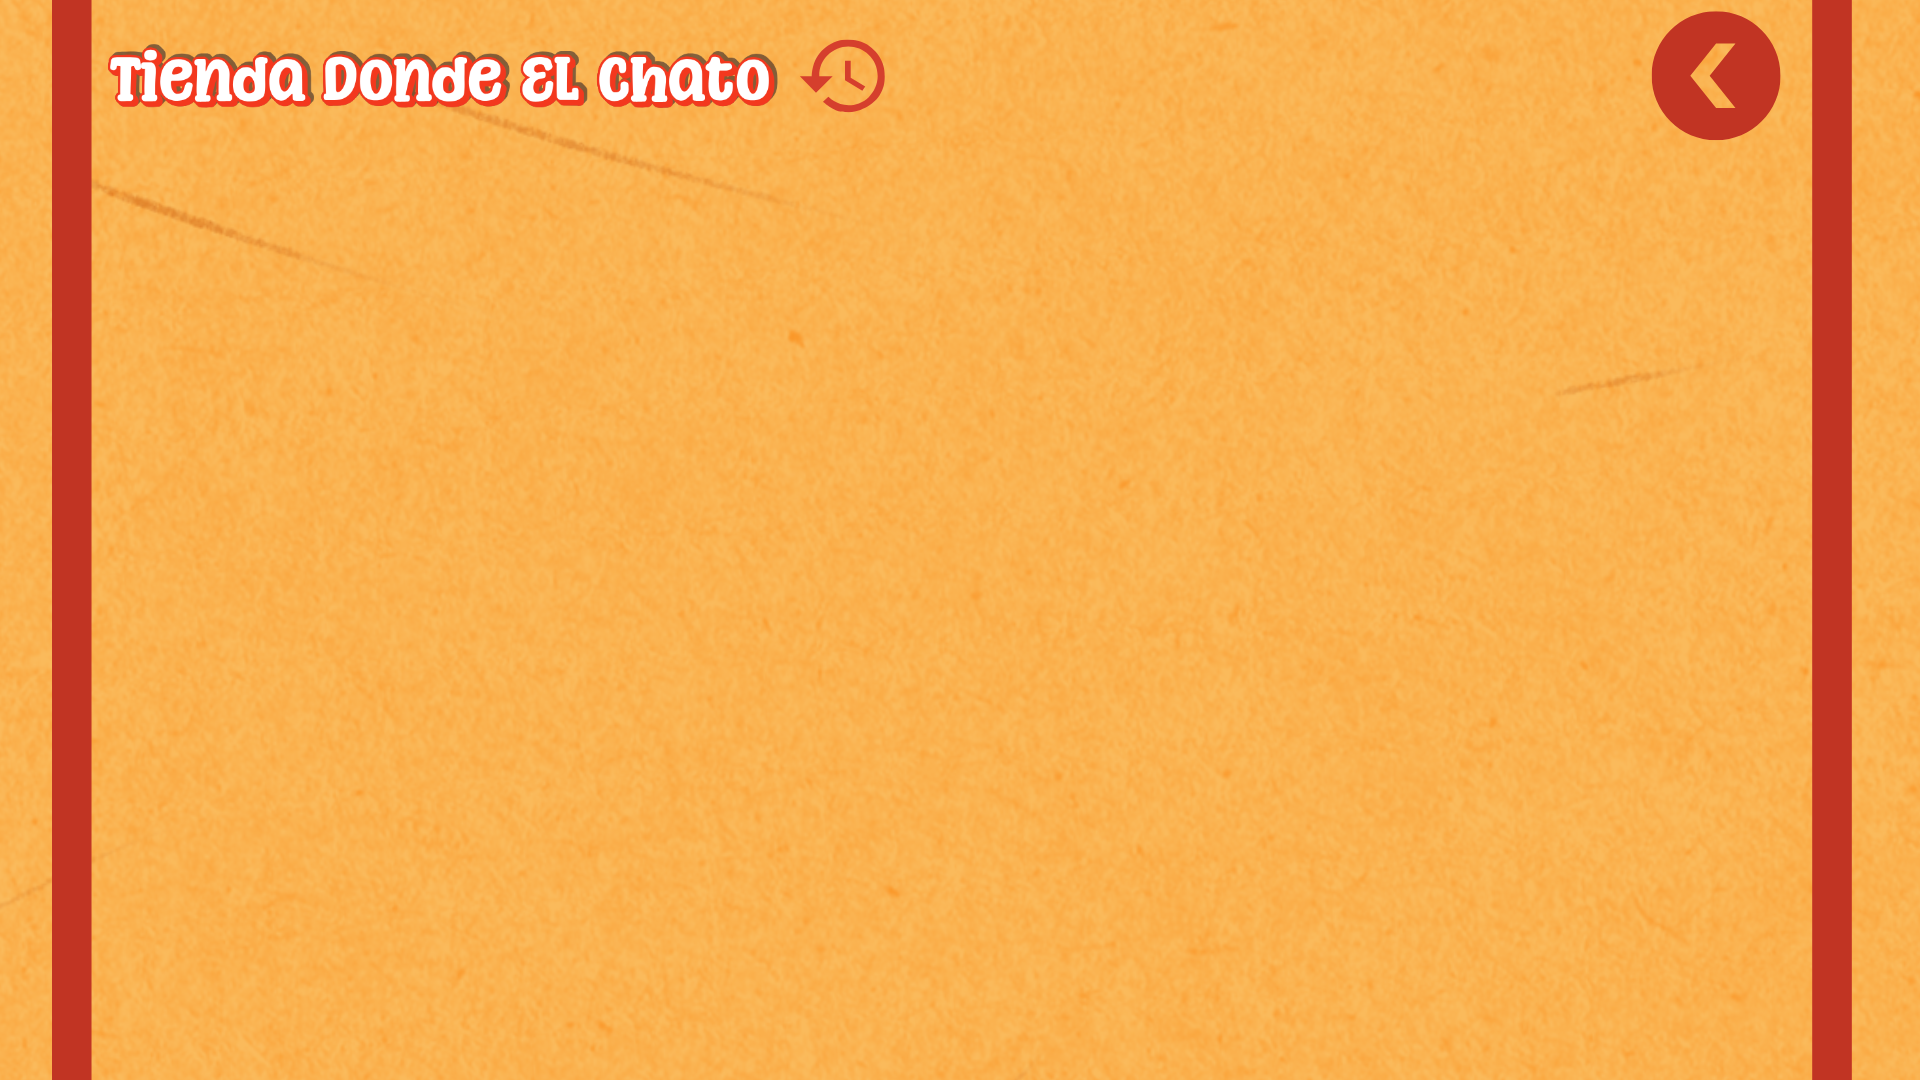
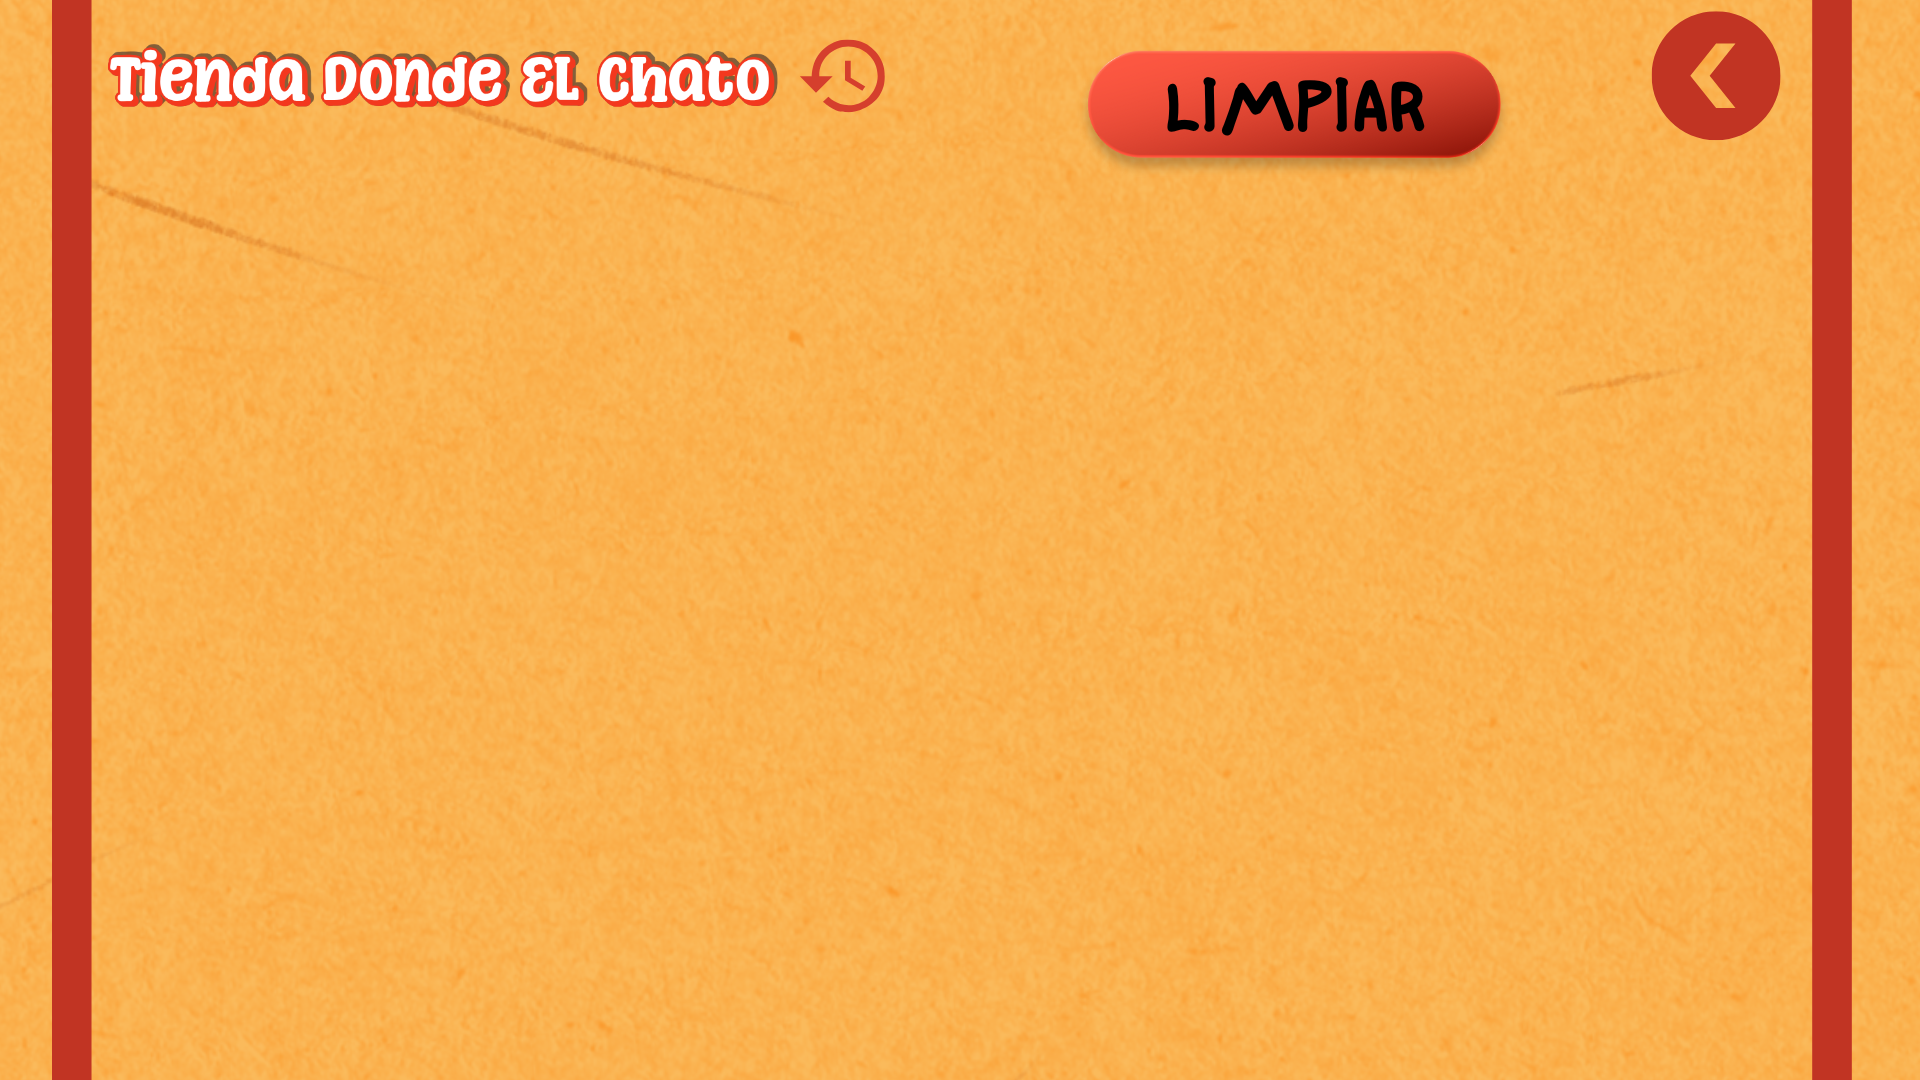
ya hpta

Changed region(s): [[0.5625, 0.0306, 0.7812, 0.1528]]

diff --git a/TiendaBarrio/src/co/edu/unbosque/view/PanelHistorial.java b/TiendaBarrio/src/co/edu/unbosque/view/PanelHistorial.java
@@ -22,153 +22,156 @@ import co.edu.unbosque.util.structure.LinkedList;
 import co.edu.unbosque.util.structure.Node;
 
 public class PanelHistorial extends JPanel {
-    private JLabel fondo;
-    private JButton btnVolver;
-    private JButton btnLimpiar;
-    private JScrollPane scrollPane;
-    private JPanel panelContenido;
-    private LinkedList<Carrito> historialCompras;
+	private JLabel fondo;
+	private JButton btnVolver;
+	private JButton btnLimpiar;
+	private JScrollPane scrollPane;
+	private JPanel panelContenido;
+	private LinkedList<Carrito> historialCompras;
 
-    public PanelHistorial() throws IOException {
-        setBounds(0, 0, 1290, 750);
-        setLayout(new BorderLayout());
-        this.historialCompras = new LinkedList<>();
+	public PanelHistorial() throws IOException {
+		setBounds(0, 0, 1290, 750);
+		setLayout(new BorderLayout());
+		this.historialCompras = new LinkedList<>();
 
-        panelContenido = new JPanel();
-        panelContenido.setLayout(new GridLayout(0, 1, 10, 10));
+		panelContenido = new JPanel();
+		panelContenido.setLayout(new GridLayout(0, 1, 10, 10));
 
-        fondo = new JLabel();
-        BufferedImage fd = ImageIO.read(new File("src/co/edu/unbosque/view/historial.png"));
-        ImageIcon imagenFondo = new ImageIcon(fd.getScaledInstance(1290, 750, Image.SCALE_SMOOTH));
-        fondo.setIcon(imagenFondo);
-        fondo.setBounds(0, 0, 1290, 750);
+		fondo = new JLabel();
+		BufferedImage fd = ImageIO.read(new File("src/co/edu/unbosque/view/historial.png"));
+		ImageIcon imagenFondo = new ImageIcon(fd.getScaledInstance(1290, 750, Image.SCALE_SMOOTH));
+		fondo.setIcon(imagenFondo);
+		fondo.setBounds(0, 0, 1290, 750);
 
-        btnLimpiar = new JButton("Limpiar Historial");
-        btnLimpiar.setBounds(1050, 600, 200, 100);
-        btnLimpiar.setFocusable(false);
-        btnLimpiar.setBackground(new Color(235, 219, 79));
-        btnLimpiar.setFont(new Font("Baloo", Font.BOLD, 15));
+		btnLimpiar = new JButton();
+		btnLimpiar.setBounds(735, 33, 280, 80);
+		btnLimpiar.setFocusable(false);
+		btnLimpiar.setBackground(new Color(0, 0, 0));
+		btnLimpiar.setContentAreaFilled(false);
+		btnLimpiar.setOpaque(false);
+		btnLimpiar.setBorderPainted(false);
+		btnLimpiar.setVisible(true);
 
-        btnVolver = new JButton();
-        btnVolver.setBounds(1120, 70, 120, 70);
-        btnVolver.setFocusable(false);
-        btnVolver.setBackground(new Color(0, 0, 0));
-        btnVolver.setBorderPainted(false);
-        btnVolver.setContentAreaFilled(false);
-        btnVolver.setOpaque(false);
+		btnVolver = new JButton();
+		btnVolver.setBounds(1110, 5, 100, 90);
+		btnVolver.setFocusable(false);
+		btnVolver.setBackground(new Color(0, 0, 0));
+		btnVolver.setBorderPainted(false);
+		btnVolver.setContentAreaFilled(false);
+		btnVolver.setOpaque(false);
 
-        JScrollPane scrollPrincipal = new JScrollPane(panelContenido);
-        scrollPrincipal.setVerticalScrollBarPolicy(JScrollPane.VERTICAL_SCROLLBAR_AS_NEEDED);
-        scrollPrincipal.setBounds(50, 230, 1000, 480);
+		JScrollPane scrollPrincipal = new JScrollPane(panelContenido);
+		scrollPrincipal.setVerticalScrollBarPolicy(JScrollPane.VERTICAL_SCROLLBAR_AS_NEEDED);
+		scrollPrincipal.setBounds(90, 140, 1100, 500);
 
-        add(btnVolver);
-        add(btnLimpiar);
-        add(scrollPrincipal);
-        add(fondo);
-    }
+		add(btnVolver);
+		add(btnLimpiar);
+		add(scrollPrincipal);
+		add(fondo);
+	}
 
-    public void agregarCompras() {
-        Node<Carrito> nodoCarrito = historialCompras.getFirst();
-        int i = 0;
-        while (nodoCarrito != null) {
-            Carrito carrito = nodoCarrito.getInfo();
-            JLabel nProducto = new JLabel(" Compra #" + (i + 1));
-            JPanel panelCarrito = new JPanel();
-            panelCarrito.setLayout(new BorderLayout());
-            panelCarrito.setBorder(BorderFactory.createLineBorder(Color.BLACK, 2));
-            panelCarrito.setBackground(new Color(198, 195, 195));
-            panelCarrito.add(nProducto, BorderLayout.NORTH);
+	public void agregarCompras() {
+		Node<Carrito> nodoCarrito = historialCompras.getFirst();
+		int i = 0;
+		while (nodoCarrito != null) {
+			Carrito carrito = nodoCarrito.getInfo();
+			JLabel nProducto = new JLabel(" Compra #" + (i + 1));
+			JPanel panelCarrito = new JPanel();
+			panelCarrito.setLayout(new BorderLayout());
+			panelCarrito.setBorder(BorderFactory.createLineBorder(Color.BLACK, 2));
+			panelCarrito.setBackground(new Color(198, 195, 195));
+			panelCarrito.add(nProducto, BorderLayout.NORTH);
 
-            JPanel panelProductos = new JPanel();
-            panelProductos.setLayout(new GridLayout(0, 1, 5, 5));
+			JPanel panelProductos = new JPanel();
+			panelProductos.setLayout(new GridLayout(0, 1, 5, 5));
 
-            Node<String> nodoProducto = carrito.getListaNombresProductos().getFirst();
-            while (nodoProducto != null) {
-                String nombreProducto = nodoProducto.getInfo();
-                JTextArea txtAreaInfo = new JTextArea(nombreProducto);
-                txtAreaInfo.setEditable(false);
-                txtAreaInfo.setFont(new Font("Baloo", Font.BOLD, 18));
-                txtAreaInfo.setBackground(new Color(230, 230, 230));
-                panelProductos.add(txtAreaInfo);
-                nodoProducto = nodoProducto.getNext();
-            }
+			Node<String> nodoProducto = carrito.getListaNombresProductos().getFirst();
+			while (nodoProducto != null) {
+				String nombreProducto = nodoProducto.getInfo();
+				JTextArea txtAreaInfo = new JTextArea(nombreProducto);
+				txtAreaInfo.setEditable(false);
+				txtAreaInfo.setFont(new Font("Baloo", Font.BOLD, 18));
+				txtAreaInfo.setBackground(new Color(230, 230, 230));
+				panelProductos.add(txtAreaInfo);
+				nodoProducto = nodoProducto.getNext();
+			}
 
-            JScrollPane scrollProductos = new JScrollPane(panelProductos);
-            scrollProductos.setPreferredSize(new Dimension(950, 450));
-            scrollProductos.setBorder(BorderFactory.createEmptyBorder());
-            panelCarrito.add(scrollProductos, BorderLayout.CENTER);
-            panelContenido.add(panelCarrito);
+			JScrollPane scrollProductos = new JScrollPane(panelProductos);
+			scrollProductos.setPreferredSize(new Dimension(950, 450));
+			scrollProductos.setBorder(BorderFactory.createEmptyBorder());
+			panelCarrito.add(scrollProductos, BorderLayout.CENTER);
+			panelContenido.add(panelCarrito);
 
-            nodoCarrito = nodoCarrito.getNext();
-            i++;
-        }
-    }
+			nodoCarrito = nodoCarrito.getNext();
+			i++;
+		}
+	}
 
-    public void actualizarInfo() {
-        panelContenido.removeAll();
-        agregarCompras();
-        revalidate();
-        repaint();
-    }
+	public void actualizarInfo() {
+		panelContenido.removeAll();
+		agregarCompras();
+		revalidate();
+		repaint();
+	}
 
-    // Método para agregar una compra al historial
-    public void agregarCompraAlHistorial(Carrito carrito) {
-        historialCompras.addLastR(carrito);
-        actualizarInfo();
-    }
+	// Método para agregar una compra al historial
+	public void agregarCompraAlHistorial(Carrito carrito) {
+		historialCompras.addLastR(carrito);
+		actualizarInfo();
+	}
 
-    // Método para limpiar el historial
-    public void limpiarHistorial() {
-        historialCompras = new LinkedList<>();
-        actualizarInfo();
-    }
+	// Método para limpiar el historial
+	public void limpiarHistorial() {
+		historialCompras = new LinkedList<>();
+		actualizarInfo();
+	}
 
-    // Getters y Setters
-    public JLabel getFondo() {
-        return fondo;
-    }
+	// Getters y Setters
+	public JLabel getFondo() {
+		return fondo;
+	}
 
-    public void setFondo(JLabel fondo) {
-        this.fondo = fondo;
-    }
+	public void setFondo(JLabel fondo) {
+		this.fondo = fondo;
+	}
 
-    public JButton getBtnVolver() {
-        return btnVolver;
-    }
+	public JButton getBtnVolver() {
+		return btnVolver;
+	}
 
-    public void setBtnVolver(JButton btnVolver) {
-        this.btnVolver = btnVolver;
-    }
+	public void setBtnVolver(JButton btnVolver) {
+		this.btnVolver = btnVolver;
+	}
 
-    public JButton getBtnLimpiar() {
-        return btnLimpiar;
-    }
+	public JButton getBtnLimpiar() {
+		return btnLimpiar;
+	}
 
-    public void setBtnLimpiar(JButton btnLimpiar) {
-        this.btnLimpiar = btnLimpiar;
-    }
+	public void setBtnLimpiar(JButton btnLimpiar) {
+		this.btnLimpiar = btnLimpiar;
+	}
 
-    public JScrollPane getScrollPane() {
-        return scrollPane;
-    }
+	public JScrollPane getScrollPane() {
+		return scrollPane;
+	}
 
-    public void setScrollPane(JScrollPane scrollPane) {
-        this.scrollPane = scrollPane;
-    }
+	public void setScrollPane(JScrollPane scrollPane) {
+		this.scrollPane = scrollPane;
+	}
 
-    public JPanel getPanelContenido() {
-        return panelContenido;
-    }
+	public JPanel getPanelContenido() {
+		return panelContenido;
+	}
 
-    public void setPanelContenido(JPanel panelContenido) {
-        this.panelContenido = panelContenido;
-    }
+	public void setPanelContenido(JPanel panelContenido) {
+		this.panelContenido = panelContenido;
+	}
 
-    public LinkedList<Carrito> getHistorialCompras() {
-        return historialCompras;
-    }
+	public LinkedList<Carrito> getHistorialCompras() {
+		return historialCompras;
+	}
 
-    public void setHistorialCompras(LinkedList<Carrito> historialCompras) {
-        this.historialCompras = historialCompras;
-    }
+	public void setHistorialCompras(LinkedList<Carrito> historialCompras) {
+		this.historialCompras = historialCompras;
+	}
 }
